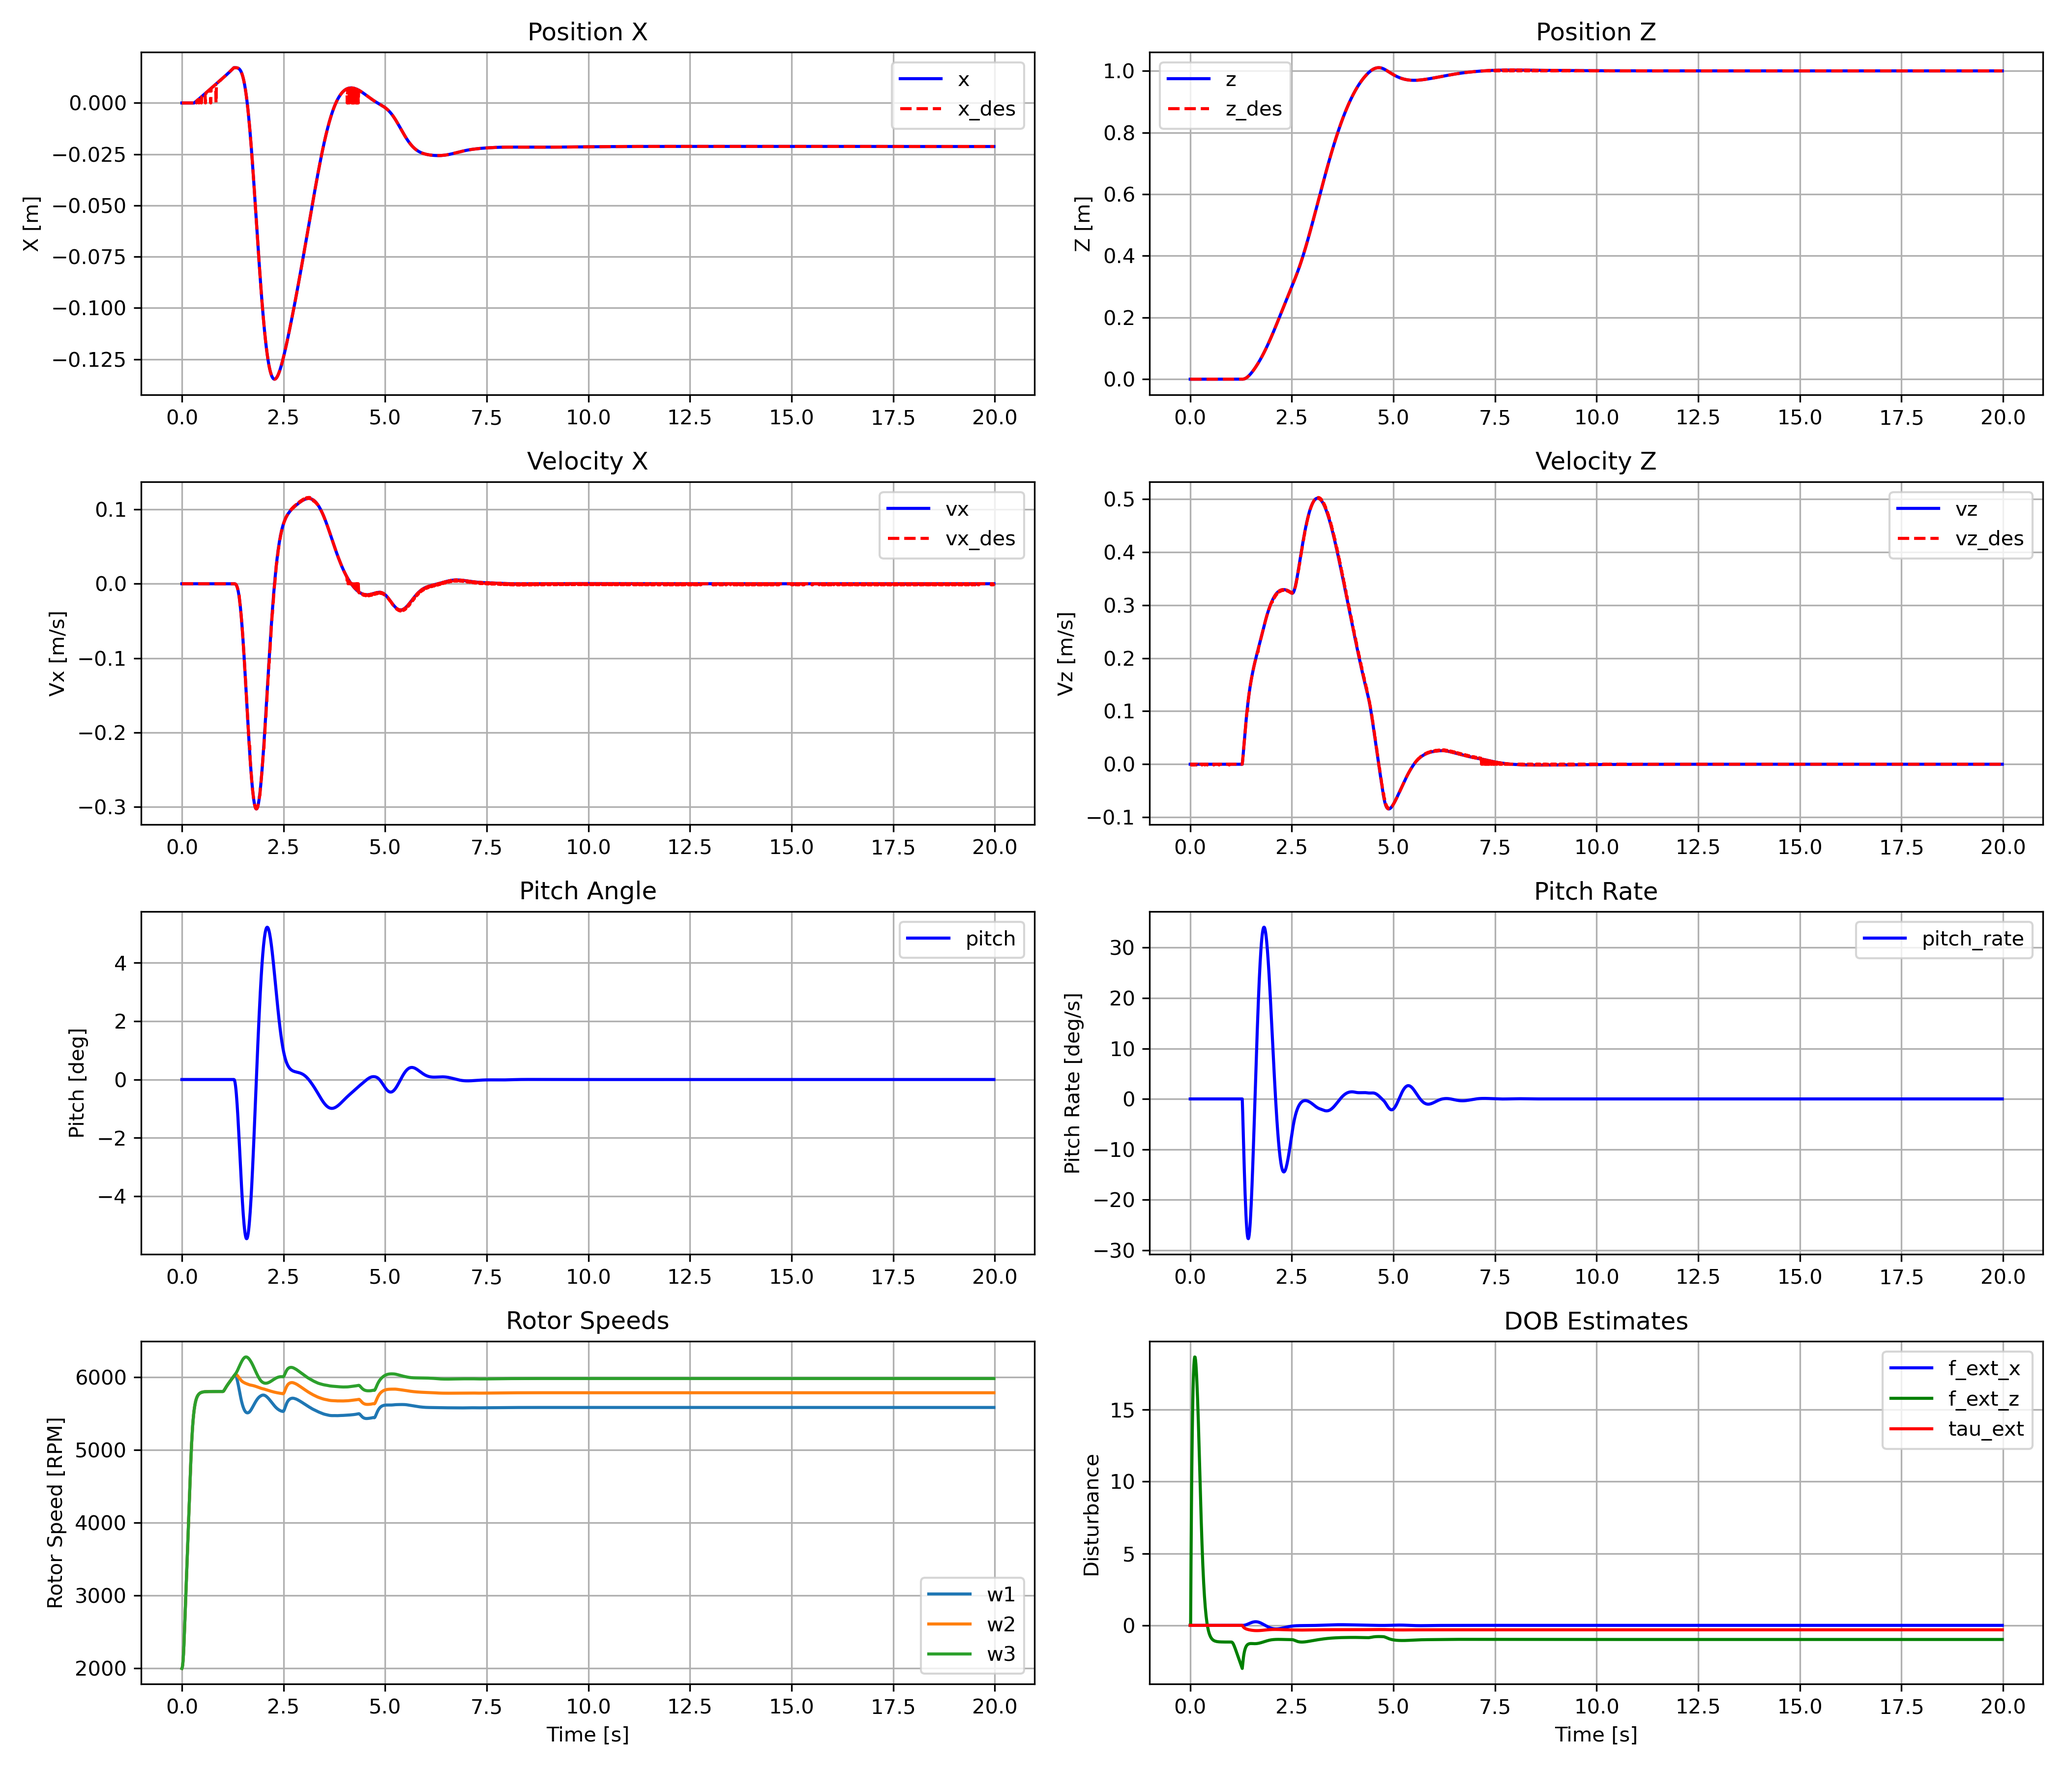
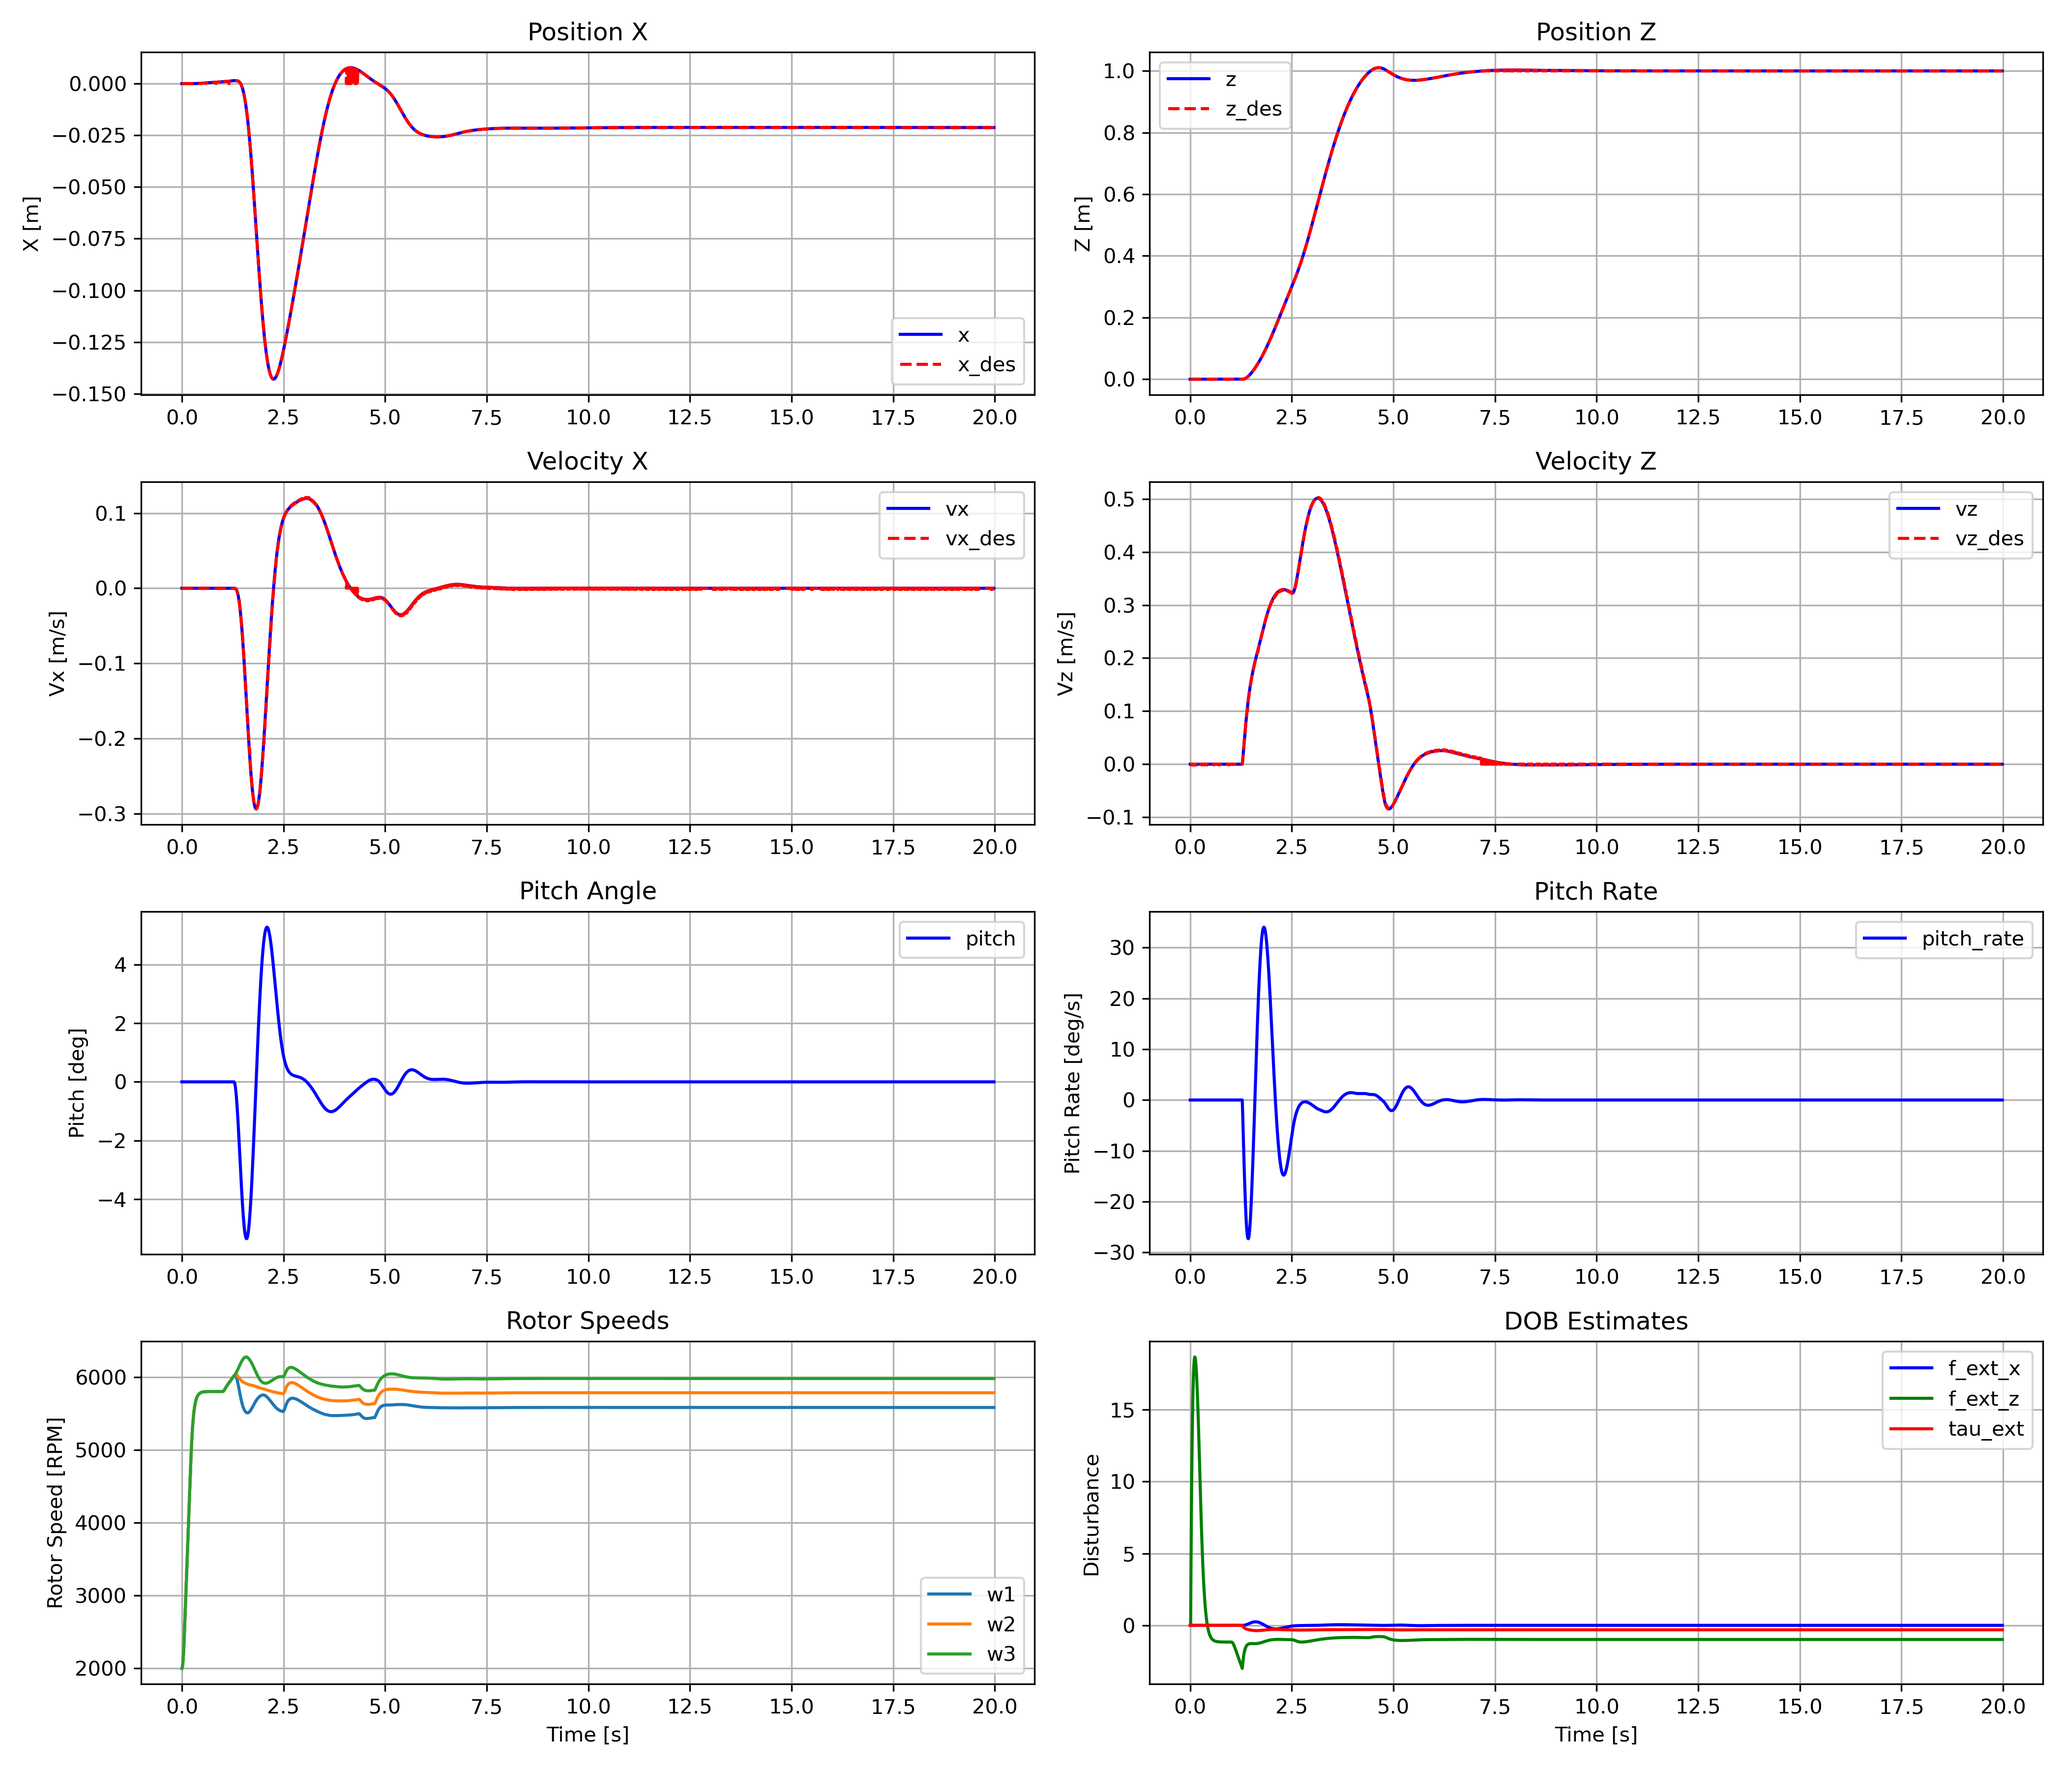
simulation improved

diff --git a/sim_model/S550_3d_model.py b/sim_model/S550_3d_model.py
@@ -36,26 +36,26 @@ class S550_3D_Sim_Model:
         self.z_off = DynamicParam['com_offset'][2]
 
         # Landing gear info
-        self.x_g = 0.256
-        self.y_g = 0.288
+        self.x_g = 0.256/2.0
+        self.y_g = 0.288/2.0
         self.h_g = 0.258
 
         # Arm length, MOI, and initial angle for contact
         # Front landing gear contact
-        self.r_f = np.sqrt((self.x_g/2.0 - self.x_off)**2
+        self.r_f = np.sqrt((self.x_g - self.x_off)**2
                            + (self.h_g + self.z_off)**2)
 
         self.Jyy_f = self.Jyy + self.m * self.r_f**2
 
-        self.delta_f = np.arctan2(self.x_g/2.0 - self.x_off,
+        self.delta_f = np.arctan2(self.x_g - self.x_off,
                                   self.h_g + self.z_off)
 
-        self.r_b = np.sqrt((self.x_g/2.0 + self.x_off)**2
+        self.r_b = np.sqrt((self.x_g + self.x_off)**2
                            + (self.h_g + self.z_off)**2)
 
         self.Jyy_b = self.Jyy + self.m * self.r_b**2
 
-        self.delta_b = np.arctan2(self.x_g/2.0 + self.x_off,
+        self.delta_b = np.arctan2(self.x_g + self.x_off,
                                   self.h_g + self.z_off)
         # Gravity (2D: x, z)
         self.g = 9.81
@@ -187,12 +187,12 @@ class S550_3D_Sim_Model:
         f, My = self._unpack_control_input(u)
 
         # Front normal force
-        self.N_f = (self.m * self.g * (0.5 + self.x_off/self.x_g)
-                    - 0.5 * f + My/self.x_g)
+        self.N_f = 0.5*(self.m * self.g * (1.0 + self.x_off/self.x_g)
+                    - f + My/self.x_g)
 
         # Rear normal force
-        self.N_b = (self.m * self.g * (0.5 - self.x_off/self.x_g)
-                    - 0.5 * f - My/self.x_g)
+        self.N_b = 0.5*(self.m * self.g * (1.0 - self.x_off/self.x_g)
+                    - f - My/self.x_g)
 
     def _compute_gear_heights(self, state):
         """Compute world-frame z-coordinates of front and rear landing gear.
@@ -208,12 +208,12 @@ class S550_3D_Sim_Model:
 
         # Front gear z in world frame
         z_front = (p[1]
-                   - sth * (self.x_g / 2.0 - self.x_off)
+                   - sth * (self.x_g - self.x_off)
                    - cth * (self.h_g + self.z_off))
 
         # Rear gear z in world frame
         z_rear = (p[1]
-                  + sth * (self.x_g / 2.0 + self.x_off)
+                  + sth * (self.x_g + self.x_off)
                   - cth * (self.h_g + self.z_off))
 
         return z_front, z_rear
@@ -256,7 +256,10 @@ class S550_3D_Sim_Model:
         else:
             # Static friction assumption
             f_fric = -fx
-            M_contact = self.m * self.g * self.r_f * np.sin(theta - self.delta_f)
+            cth = np.cos(theta)
+            sth = np.sin(theta)
+            M_contact = self.m * self.g *( (self.h_g + self.z_off) * sth
+                                           -(self.x_g - self.x_off) * cth )
 
             dthdt = q
             dqdt = 1.0/self.Jyy_f * (My + self.x_g*f + M_contact)
@@ -293,7 +296,8 @@ class S550_3D_Sim_Model:
             f_fric = -fx
             cth = np.cos(theta)
             sth = np.sin(theta)
-            M_contact = self.m * self.g * self.r_b * np.sin(theta + self.delta_b)
+            M_contact = self.m * self.g * ((self.h_g + self.z_off) * sth
+                                           + (self.x_g + self.x_off) * cth)
 
             dthdt = q
             dqdt = 1.0 / self.Jyy_b * (My - self.x_g*f + M_contact)
